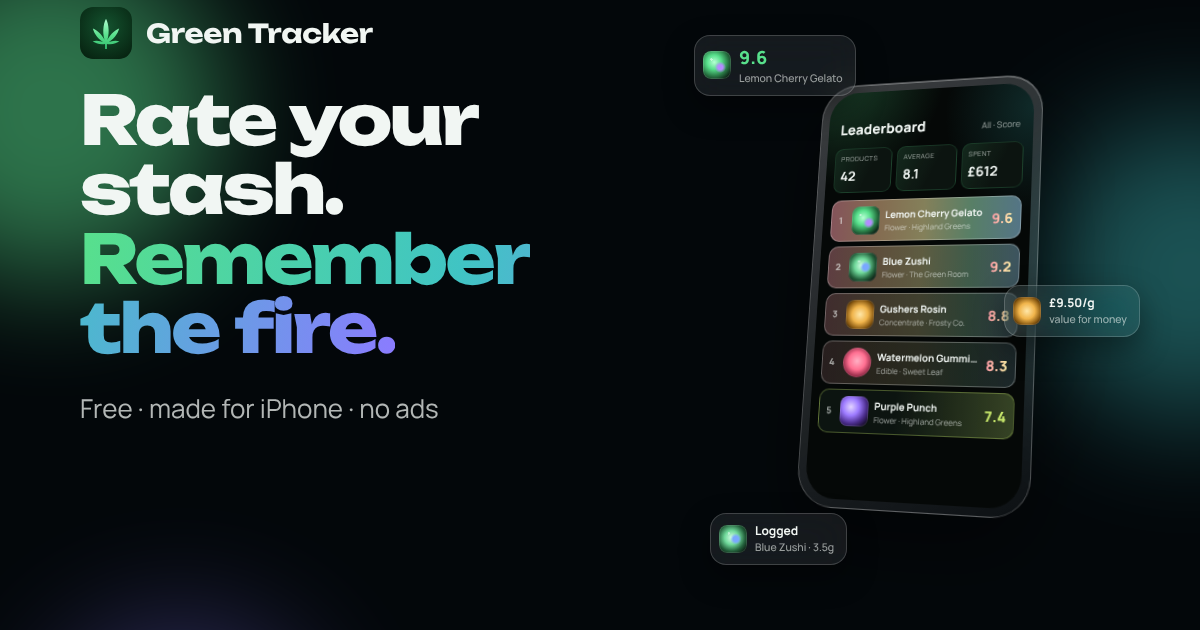
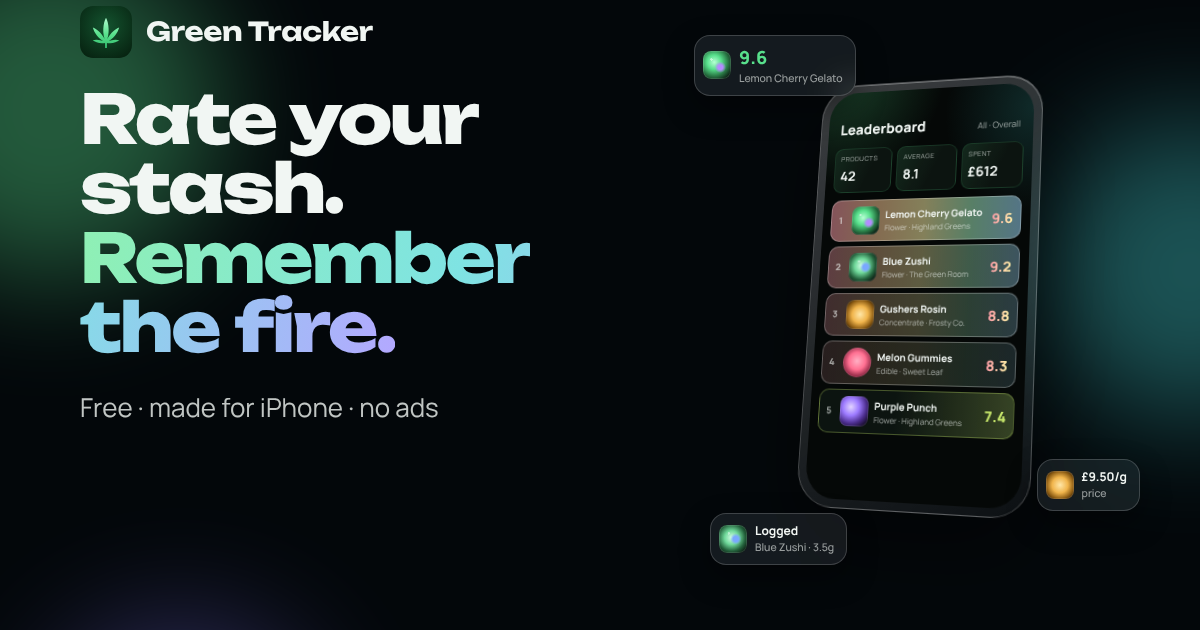
Website catches up with the app (0.69.4)
What sign-up asks for, posts in the friends card, one time throughout, the
video's last caption with View More, the real address and a WhatsApp line in
step 1, the price chip relabelled and moved off the scores (share picture
redrawn), 44-point top buttons, a fixed slider name, laptop layout lined up,
and the lost page reworded.

Claude-Session: https://claude.ai/code/session_015gNFVnJ8i3cwj7fjUvrifw

diff --git a/site/public/index.html b/site/public/index.html
@@ -40,22 +40,23 @@
         <a class="btn go" href="https://green-tracker.green-tracker.workers.dev/signup">Sign up free</a>
         <a class="btn ghost" href="#install">Put it on my iPhone</a>
       </div>
+      <p class="asks">Just an email and password. Your email stays private; Face ID is optional.</p>
 
       <!-- A picture of the app, drawn here. Every product in it is made up. -->
       <div class="stage" role="img" aria-label="The Green Tracker Leaderboard on an iPhone, with made-up products ranked by score">
         <div class="chip c1" aria-hidden="true"><span class="nug"></span><span><b class="big">9.6</b><small>Lemon Cherry Gelato</small></span></div>
         <div class="mini" aria-hidden="true"><div class="mini-in">
-          <div class="mini-h"><b>Leaderboard</b><span>All · Score</span></div>
+          <div class="mini-h"><b>Leaderboard</b><span>All · Overall</span></div>
           <div class="tiles"><div><small>Products</small><b>42</b></div><div><small>Average</small><b>8.1</b></div><div><small>Spent</small><b>£612</b></div></div>
           <div class="lb">
             <div class="lr holo b4"><span class="rk">1</span><span class="nug"></span><span class="nm"><b>Lemon Cherry Gelato</b><small>Flower · Highland Greens</small></span><span class="sc">9.6</span></div>
             <div class="lr holo b3"><span class="rk">2</span><span class="nug n2"></span><span class="nm"><b>Blue Zushi</b><small>Flower · The Green Room</small></span><span class="sc">9.2</span></div>
             <div class="lr holo b2"><span class="rk">3</span><span class="nug n3"></span><span class="nm"><b>Gushers Rosin</b><small>Concentrate · Frosty Co.</small></span><span class="sc">8.8</span></div>
-            <div class="lr holo b1"><span class="rk">4</span><span class="nug n4"></span><span class="nm"><b>Watermelon Gummies</b><small>Edible · Sweet Leaf</small></span><span class="sc">8.3</span></div>
+            <div class="lr holo b1"><span class="rk">4</span><span class="nug n4"></span><span class="nm"><b>Melon Gummies</b><small>Edible · Sweet Leaf</small></span><span class="sc">8.3</span></div>
             <div class="lr heat"><span class="rk">5</span><span class="nug n5"></span><span class="nm"><b>Purple Punch</b><small>Flower · Highland Greens</small></span><span class="sc">7.4</span></div>
           </div>
         </div></div>
-        <div class="chip c2" aria-hidden="true"><span class="nug n3"></span><span>£9.50/g<small>value for money</small></span></div>
+        <div class="chip c2" aria-hidden="true"><span class="nug n3"></span><span>£9.50/g<small>price</small></span></div>
         <div class="chip c3" aria-hidden="true"><span class="nug n2"></span><span>Logged<small>Blue Zushi · 3.5g</small></span></div>
       </div>
     </section>
@@ -81,8 +82,8 @@
         </article>
         <article class="feat reveal">
           <span class="ic"><svg viewBox="0 0 24 24" aria-hidden="true"><circle cx="9" cy="8" r="3.5" /><path d="M2.5 20a6.5 6.5 0 0 1 13 0M16 4.5a3.5 3.5 0 0 1 0 7M18 14a6 6 0 0 1 3.5 6" /></svg></span>
-          <h3>Peep your mates’ picks</h3>
-          <p>Follow friends and see their top shelf. Only if they say yes. Your stuff stays yours until you let someone in.</p>
+          <h3>See your mates’ picks and posts</h3>
+          <p>Follow friends to see their top shelf and their posts in your Feed. Post what you’re smoking: only friends you approve see it.</p>
         </article>
       </div>
     </section>
@@ -92,8 +93,8 @@
       <h2 id="try" class="reveal">Go on, rate it.</h2>
       <div class="rate reveal">
         <div class="lr holo b3" id="rate-row"><span class="nug n2"></span><span class="nm"><b>Blue Zushi</b><small>Flower · The Green Room</small></span><span class="sc" id="rate-score">9.2</span></div>
-        <label class="verdict" for="rate" id="rate-verdict">Fire.</label>
-        <input type="range" id="rate" min="1" max="10" step="0.1" value="9.2" />
+        <p class="verdict" id="rate-verdict">Fire.</p>
+        <input type="range" id="rate" min="1" max="10" step="0.1" value="9.2" aria-label="Score for Blue Zushi" />
         <div class="scale" aria-hidden="true"><span>1 · bin it</span><span>10 · top shelf</span></div>
       </div>
     </section>
@@ -101,17 +102,17 @@
     <section class="sec" id="install" aria-labelledby="get">
       <p class="label reveal">Get it</p>
       <h2 id="get" class="reveal">On your iPhone in 20 seconds.</h2>
-      <!-- D68: the steps as a 24-second video. Nothing downloads until it's played; sound only when tapped. -->
+      <!-- D68: the steps as a video (24 seconds long). Nothing downloads until it's played; sound only when tapped. -->
       <figure class="video reveal">
         <video controls playsinline preload="none" poster="/media/home-screen.jpg" width="1280" height="720" aria-describedby="video-about">
           <source src="/media/home-screen.mp4" type="video/mp4" />
-          <track kind="captions" src="/media/home-screen.vtt" srclang="en" label="English" />
+          <track kind="captions" src="/media/home-screen.vtt" srclang="en-GB" label="English (UK)" />
         </video>
-        <figcaption id="video-about">Watch it done: Safari, Share, View More, Add to Home Screen, Add. 24 seconds.</figcaption>
+        <figcaption id="video-about">Watch it done: Safari, Share, View More, Add to Home Screen, Add.</figcaption>
       </figure>
       <ol class="steps">
-        <li class="step reveal"><span class="n" aria-hidden="true">1</span><b>Open it in Safari</b><p>Tap Sign up free on this page, in Safari.</p>
-          <div class="pic" aria-hidden="true"><div class="safari"><span class="back">‹</span><span class="url">green-tracker.workers.dev</span><span class="share"><svg viewBox="0 0 24 24"><path d="M12 3v12M8 7l4-4 4 4M6 11H5v10h14V11h-1" /></svg></span></div></div></li>
+        <li class="step reveal"><span class="n" aria-hidden="true">1</span><b>Open it in Safari</b><p>Tap Sign up free above, in Safari.</p><p class="inapp">Opened this inside WhatsApp or Instagram? Open it in Safari first: tap ⋯ or the compass, then Open in Safari.</p>
+          <div class="pic" aria-hidden="true"><div class="safari"><span class="back">‹</span><span class="url">green-tracker.green-tracker.workers.dev</span><span class="share"><svg viewBox="0 0 24 24"><path d="M12 3v12M8 7l4-4 4 4M6 11H5v10h14V11h-1" /></svg></span></div></div></li>
         <li class="step reveal"><span class="n" aria-hidden="true">2</span><b>Tap Share, then View More, then Add to Home Screen</b><p>On newer iPhones, tap ⋯ at the bottom first to find Share. View More is the last round button.</p>
           <div class="pic menu" aria-hidden="true"><div>Copy <svg viewBox="0 0 24 24"><rect x="8" y="8" width="12" height="12" rx="2" /><path d="M4 16V4h12" /></svg></div><div class="hit">Add to Home Screen <svg viewBox="0 0 24 24"><rect x="4" y="4" width="16" height="16" rx="4" /><path d="M12 8v8M8 12h8" /></svg></div><div>Add Bookmark <svg viewBox="0 0 24 24"><path d="M5 4h14v17l-7-5-7 5z" /></svg></div></div></li>
         <li class="step reveal"><span class="n" aria-hidden="true">3</span><b>Tap Add. Done.</b><p>It sits on your Home Screen and opens full screen, like a proper app.</p>
@@ -122,7 +123,7 @@
 
     <section class="final reveal" aria-labelledby="go">
       <h2 id="go">Roll one up and sign up.</h2>
-      <p class="lede">Free. No ads. Takes a minute.</p>
+      <p class="lede">Free. No ads. On your Home Screen in 20 seconds.</p>
       <a class="btn go" href="https://green-tracker.green-tracker.workers.dev/signup">Sign up free</a>
     </section>
   </main>

diff --git a/test/e2e/website.spec.ts b/test/e2e/website.spec.ts
@@ -75,7 +75,7 @@ test('no accessibility problems, at the top and after scrolling through', async 
 // The words sit over drifting lights (axe can't judge text over moving colour): the lights are
 // paused at several moments and the worst pixel behind each piece of text is measured, all the
 // way down the page. The little picture of the app and of Safari are pictures, not words to read.
-const WORDS = '.brand span, .btn, .eyebrow, h1, h1 em, h2, h3, .lede, .label, .feat p, .verdict, .rate .nm b, .rate .nm small, .rate .sc, .scale span, .step b, .step p, .step .n, .video figcaption, .other, .foot span';
+const WORDS = '.brand span, .btn, .eyebrow, h1, h1 em, h2, h3, .lede, .asks, .label, .feat p, .verdict, .rate .nm b, .rate .nm small, .rate .sc, .scale span, .step b, .step p, .step .n, .video figcaption, .other, .foot span';
 test('every word is readable over the moving lights, all the way down', async ({ page }) => {
   test.slow();
   await open(page);
@@ -110,7 +110,8 @@ test('fits a phone: nothing spills sideways, from the smallest iPhone up', async
 
 test('Go on, rate it: the slider gives the score the colours it earns in the app', async ({ page }) => {
   await open(page);
-  const slider = page.getByRole('slider', { name: /fire|talking|bad|mids|top shelf/i });
+  // Its name stays the same as it moves (0.69.4); the verdict is read out with the value.
+  const slider = page.getByRole('slider', { name: 'Score for Blue Zushi', exact: true });
   const row = page.locator('#rate-row');
   await slider.fill('9.7');
   await expect(page.locator('#rate-score')).toHaveText('9.7');
@@ -123,6 +124,7 @@ test('Go on, rate it: the slider gives the score the colours it earns in the app
   await expect(row).toHaveClass('lr heat');
   await expect(page.locator('#rate-verdict')).toHaveText('Mids. Straight to the bottom.');
   await expect(slider).toHaveAttribute('aria-valuetext', '5.0 out of 10: Mids. Straight to the bottom.');
+  await expect(page.getByRole('slider', { name: 'Score for Blue Zushi', exact: true })).toHaveCount(1);
   // Below 8 the score glows amber to mint, like the app's heat (D30): amber here.
   expect(await page.locator('#rate-score').evaluate((e) => getComputedStyle(e).color)).toBe('rgb(210, 184, 82)');
 });
@@ -182,6 +184,80 @@ test('with Reduce Motion on, nothing moves', async ({ browser }) => {
 test('an address that does not exist gets the lost page, with a way back', async ({ page }) => {
   const { elsewhere } = await open(page, '/nope');
   await expect(page.getByRole('heading', { level: 1 })).toHaveText('Lost the lighter?');
+  await expect(page.getByText('This page doesn’t exist. Head back to the start.')).toBeVisible();
   await expect(page.getByRole('link', { name: 'Back to Green Tracker' })).toHaveAttribute('href', '/');
+  await expect(page.getByRole('link', { name: 'Open the app' })).toHaveAttribute('href', `${APP}/`);
   expect(elsewhere).toEqual([]);
+});
+
+// 0.69.4 (the website catching up with the app, review panel 2026-11-03): what sign-up asks for (D80), the Feed
+// (D77), one time throughout, the real address, and the price chip clear of the scores.
+test('the words match today’s app: an email and password, posts for approved friends, one time throughout', async ({ page }) => {
+  await open(page);
+  const text = await page.locator('body').innerText();
+  await expect(page.locator('.hero .asks')).toHaveText('Just an email and password. Your email stays private; Face ID is optional.');
+  // Since D80 sign-up asks for both: the page must never say otherwise.
+  expect(text).not.toMatch(/no (email|password|phone)/i);
+  await expect(page.getByRole('heading', { name: 'See your mates’ picks and posts' })).toBeVisible();
+  expect(text).toContain('only friends you approve see it');
+  expect(text).not.toMatch(/\bpeep\b/i);
+  // One time everywhere: 20 seconds, as the video itself says.
+  expect(text.match(/\b\d+ seconds?\b|\bminute\b/gi)).toEqual(['20 seconds', '20 seconds']);
+  const vtt = readFileSync(join(DIR, 'media/home-screen.vtt'), 'utf8');
+  expect(vtt.match(/\b\d+ seconds?\b|\bminute\b/gi)).toEqual(['20 seconds']);
+  expect(vtt.trim().split('\n').slice(-2)[0]).toBe('Get it in 3 steps: open it in Safari, Share → View More → Add to Home Screen, tap Add.');
+  // The real address in the Safari drawing, and a way out of WhatsApp's and Instagram's own browsers.
+  await expect(page.locator('.safari .url')).toHaveText(new URL(APP).host);
+  await expect(page.locator('#install li').first()).toContainText('Opened this inside WhatsApp or Instagram? Open it in Safari first');
+  // The picture of the app: the app's own words, a price called a price, no name cut short.
+  await expect(page.locator('.mini-h span')).toHaveText('All · Overall');
+  await expect(page.locator('.chip.c2')).toHaveText('£9.50/gprice');
+  for (const name of await page.locator('.mini .nm b').all()) expect(await name.evaluate((b) => b.scrollWidth <= b.clientWidth), await name.innerText()).toBe(true);
+});
+
+test('the floating chips never cover a score, on a phone or a laptop', async ({ page }) => {
+  for (const [width, height] of [[320, 700], [390, 844], [1280, 800]]) {
+    await page.setViewportSize({ width, height });
+    await open(page);
+    // Held still (the chips and the phone float), so the boxes are where they rest.
+    await page.evaluate(() => { for (const a of document.getAnimations()) { a.pause(); a.currentTime = 0; } });
+    const clash = await page.evaluate(() => {
+      const scores = [...document.querySelectorAll('.mini .sc')].map((e) => e.getBoundingClientRect());
+      const out: string[] = [];
+      for (const chip of document.querySelectorAll('.chip')) {
+        const c = chip.getBoundingClientRect();
+        for (const s of scores) if (c.left < s.right && s.left < c.right && c.top < s.bottom && s.top < c.bottom) out.push(chip.textContent!);
+      }
+      return out;
+    });
+    expect(clash, `${width}px wide`).toEqual([]);
+  }
+});
+
+test('the buttons at the top are big enough to tap (44 points)', async ({ page }) => {
+  for (const width of [320, 1280]) {
+    await page.setViewportSize({ width, height: 800 });
+    await open(page);
+    for (const link of await page.locator('.nav a').all()) {
+      const box = (await link.boundingBox())!;
+      expect(Math.min(box.width, box.height), `${await link.innerText()} at ${width}px`).toBeGreaterThanOrEqual(44);
+    }
+  }
+});
+
+test('on a laptop everything lines up with the hero, and the three steps sit side by side', async ({ page }) => {
+  await page.setViewportSize({ width: 1280, height: 800 });
+  await open(page);
+  await noRise(page);
+  const left = (sel: string) => page.locator(sel).first().evaluate((e) => Math.round(e.getBoundingClientRect().left));
+  const hero = await left('h1');
+  for (const sel of ['#what', '#try', '#get', '.feats', '.rate', '.steps', '.other', '.final']) expect(await left(sel), sel).toBe(hero);
+  const steps = await page.locator('#install ol > li').evaluateAll((ls) => ls.map((l) => Math.round(l.getBoundingClientRect().top)));
+  expect(new Set(steps).size).toBe(1);
+  // Each step's words start right under its title (no gap from stretching to the tallest step).
+  for (const step of await page.locator('#install ol > li').all()) {
+    const gap = await step.evaluate((l) => l.querySelector('p')!.getBoundingClientRect().top - l.querySelector('b')!.getBoundingClientRect().bottom);
+    expect(gap).toBeLessThan(10);
+  }
+  expect(await page.evaluate(() => document.documentElement.scrollWidth)).toBe(1280);
 });

diff --git a/site/public/site.css b/site/public/site.css
@@ -49,13 +49,13 @@ h1, h2, h3, p { margin: 0; }
 .nav { position: sticky; top: 0; z-index: 20; display: flex; align-items: center; justify-content: space-between; gap: 10px;
   padding: calc(12px + env(safe-area-inset-top, 0px)) var(--gutter-r) 12px var(--gutter-l);
   background: rgba(3, 7, 10, 0.55); -webkit-backdrop-filter: blur(20px) saturate(160%); backdrop-filter: blur(20px) saturate(160%); border-bottom: 1px solid rgba(255, 255, 255, 0.06); }
-.brand { display: flex; align-items: center; gap: 9px; font-family: var(--display); font-weight: 700; font-size: 15px; letter-spacing: -0.01em; text-decoration: none; }
+.brand { display: flex; align-items: center; gap: 9px; min-height: 44px; font-family: var(--display); font-weight: 700; font-size: 15px; letter-spacing: -0.01em; text-decoration: none; }
 .brand img { width: 30px; height: 30px; border-radius: 8px; }
 
 .page { max-width: 560px; margin: 0 auto; padding: 0 var(--gutter-r) 0 var(--gutter-l); }
 
 .btn { position: relative; overflow: hidden; display: inline-flex; align-items: center; justify-content: center; border-radius: 99px; font-weight: 800; text-decoration: none; white-space: nowrap; }
-.btn.sm { padding: 8px 14px; font-size: 13px; background: var(--glass); border: 1px solid var(--glass-edge); }
+.btn.sm { min-height: 44px; padding: 8px 16px; font-size: 13px; background: var(--glass); border: 1px solid var(--glass-edge); }
 .btn.go { padding: 15px 26px; font-size: 16px; color: var(--on-accent); background: linear-gradient(100deg, var(--green), var(--teal)); box-shadow: 0 10px 40px rgba(88, 224, 140, 0.35); }
 .btn.go::after { content: ""; position: absolute; inset: 0; background: linear-gradient(100deg, transparent 30%, rgba(255, 255, 255, 0.55) 50%, transparent 70%); transform: translateX(-120%); animation: sweep 3.6s ease-in-out infinite 1.2s; }
 .btn.ghost { padding: 15px 20px; font-size: 15px; background: var(--glass); border: 1px solid var(--glass-edge); -webkit-backdrop-filter: blur(12px); backdrop-filter: blur(12px); }
@@ -69,6 +69,8 @@ h1 { font-family: var(--display); font-weight: 800; font-size: clamp(38px, 11vw,
 h1 em { font-style: normal; background: linear-gradient(100deg, #8ff0b4, #7fe3e3 50%, #b3a8ff); -webkit-background-clip: text; background-clip: text; color: transparent; }
 .lede { font-size: 17px; line-height: 1.55; color: var(--text-2); max-width: 34ch; }
 .ctas { display: flex; flex-wrap: wrap; gap: 10px; padding-top: 4px; }
+/* What sign-up asks for (D80: an email and a password; Face ID optional). */
+.asks { font-size: 14.5px; color: var(--text-2); max-width: 40ch; }
 
 /* The floating glass iPhone with the Leaderboard on it. */
 .stage { position: relative; height: 490px; margin-top: 10px; perspective: 1000px; }
@@ -120,7 +122,7 @@ h1 em { font-style: normal; background: linear-gradient(100deg, #8ff0b4, #7fe3e3
 .chip small { display: block; font-weight: 500; color: var(--text-3); font-size: 10.5px; }
 .chip .big { display: block; font-family: var(--num); font-size: 18px; color: var(--green); }
 .c1 { left: -6px; top: 0; animation: float 6s ease-in-out infinite -2s; }
-.c2 { right: 0; top: 250px; animation: float 8s ease-in-out infinite -4s; }
+.c2 { right: 0; top: 424px; animation: float 8s ease-in-out infinite -4s; }
 .c3 { left: 10px; bottom: 30px; animation: float 7s ease-in-out infinite -1s; }
 
 /* Sections */
@@ -150,10 +152,11 @@ h3 { margin-top: 4px; font-family: var(--display); font-size: 19px; font-weight:
 
 /* Get it on your iPhone */
 .steps { display: grid; gap: 12px; margin: 0; padding: 0; list-style: none; }
-.step { display: grid; grid-template-columns: 36px minmax(0, 1fr); gap: 4px 14px; align-items: start; padding: 16px; border-radius: 20px; }
+.step { display: grid; grid-template-columns: 36px minmax(0, 1fr); gap: 4px 14px; align-items: start; align-content: start; padding: 16px; border-radius: 20px; }
 .step .n { grid-row: span 2; width: 36px; height: 36px; border-radius: 12px; display: grid; place-items: center; font-family: var(--display); font-weight: 800; color: var(--on-accent); background: linear-gradient(135deg, var(--green), var(--teal)); }
 .step b { font-size: 16px; }
 .step p { font-size: 15px; color: var(--text-2); }
+.step .inapp { grid-column: 2; margin-top: 6px; font-size: 14px; }
 /* Little pictures of Safari and the Home Screen, in iPhone's own colours. */
 .pic { grid-column: 2; margin-top: 10px; padding: 10px 12px; border-radius: 14px; background: #1c1c1e; border: 1px solid rgba(255, 255, 255, 0.08); color: #f2f2f7;
   font: 13px/1.3 -apple-system, BlinkMacSystemFont, "SF Pro Text", var(--body); }
@@ -208,11 +211,13 @@ h3 { margin-top: 4px; font-family: var(--display); font-size: 19px; font-weight:
   .page { max-width: 1080px; }
   .hero { grid-template-columns: minmax(0, 1fr) 420px; column-gap: 48px; padding-top: 80px; align-items: center; }
   .hero > :not(.stage) { grid-column: 1; }
-  .stage { grid-column: 2; grid-row: 1 / span 5; }
-  .feats, .steps { grid-template-columns: repeat(2, minmax(0, 1fr)); }
-  .sec, .final { max-width: 860px; margin-inline: auto; width: 100%; }
-  .rate { max-width: 520px; }
+  .stage { grid-column: 2; grid-row: 1 / span 6; }
+  /* Everything lines up with the hero's left edge; the three steps sit side by side. */
+  .feats { grid-template-columns: repeat(2, minmax(0, 1fr)); }
+  .steps { grid-template-columns: repeat(3, minmax(0, 1fr)); }
+  .rate, .video { width: 100%; max-width: 640px; }
 }
 
 /* The page for an address that doesn't exist. */
 .lost { min-height: 100dvh; display: grid; align-content: center; gap: 18px; padding-block: 40px; }
+.lost .ctas { padding-top: 0; }

diff --git a/site/og.html b/site/og.html
@@ -28,17 +28,17 @@
     <div class="stage">
       <div class="chip c1"><span class="nug"></span><span><b class="big">9.6</b><small>Lemon Cherry Gelato</small></span></div>
       <div class="mini"><div class="mini-in">
-        <div class="mini-h"><b>Leaderboard</b><span>All · Score</span></div>
+        <div class="mini-h"><b>Leaderboard</b><span>All · Overall</span></div>
         <div class="tiles"><div><small>Products</small><b>42</b></div><div><small>Average</small><b>8.1</b></div><div><small>Spent</small><b>£612</b></div></div>
         <div class="lb">
           <div class="lr holo b4"><span class="rk">1</span><span class="nug"></span><span class="nm"><b>Lemon Cherry Gelato</b><small>Flower · Highland Greens</small></span><span class="sc">9.6</span></div>
           <div class="lr holo b3"><span class="rk">2</span><span class="nug n2"></span><span class="nm"><b>Blue Zushi</b><small>Flower · The Green Room</small></span><span class="sc">9.2</span></div>
           <div class="lr holo b2"><span class="rk">3</span><span class="nug n3"></span><span class="nm"><b>Gushers Rosin</b><small>Concentrate · Frosty Co.</small></span><span class="sc">8.8</span></div>
-          <div class="lr holo b1"><span class="rk">4</span><span class="nug n4"></span><span class="nm"><b>Watermelon Gummies</b><small>Edible · Sweet Leaf</small></span><span class="sc">8.3</span></div>
+          <div class="lr holo b1"><span class="rk">4</span><span class="nug n4"></span><span class="nm"><b>Melon Gummies</b><small>Edible · Sweet Leaf</small></span><span class="sc">8.3</span></div>
           <div class="lr heat"><span class="rk">5</span><span class="nug n5"></span><span class="nm"><b>Purple Punch</b><small>Flower · Highland Greens</small></span><span class="sc">7.4</span></div>
         </div>
       </div></div>
-      <div class="chip c2"><span class="nug n3"></span><span>£9.50/g<small>value for money</small></span></div>
+      <div class="chip c2"><span class="nug n3"></span><span>£9.50/g<small>price</small></span></div>
       <div class="chip c3"><span class="nug n2"></span><span>Logged<small>Blue Zushi · 3.5g</small></span></div>
     </div>
   </div>

diff --git a/site/public/404.html b/site/public/404.html
@@ -4,6 +4,7 @@
   <meta charset="utf-8" />
   <meta name="viewport" content="width=device-width, initial-scale=1, viewport-fit=cover" />
   <title>Lost · Green Tracker</title>
+  <meta name="theme-color" content="#03070a" />
   <meta name="color-scheme" content="dark" />
   <link rel="icon" href="/favicon.svg" type="image/svg+xml" />
   <link rel="stylesheet" href="/site.css" />
@@ -12,8 +13,8 @@
   <div class="lights" aria-hidden="true"><span class="blob l1"></span><span class="blob l2"></span></div>
   <main class="page lost">
     <h1>Lost the <em>lighter?</em></h1>
-    <p class="lede">There’s nothing here. Head back and try again.</p>
-    <p><a class="btn go" href="/">Back to Green Tracker</a></p>
+    <p class="lede">This page doesn’t exist. Head back to the start.</p>
+    <div class="ctas"><a class="btn go" href="/">Back to Green Tracker</a><a class="btn ghost" href="https://green-tracker.green-tracker.workers.dev/">Open the app</a></div>
   </main>
 </body>
 </html>

diff --git a/SPEC.md b/SPEC.md
@@ -1263,14 +1263,22 @@ Mockups: `design/mockups.html` (https://claude.ai/artifact/33Y3cGCk8u6Kos1u1ht6H
   check. All links to the app are absolute (`https://green-tracker.green-tracker.workers.dev/`, `/signup` for Sign up
   free). Look: the app's dark green and Aurora, with drifting green, teal and violet lights (`.l1`–`.l5`; not `.b1`…,
   which are the Leaderboard's band classes), frosted glass cards, a gradient headline in lighter tints (readable over
-  the lights). Wider than 900px: the phone beside the words, cards two across.
+  the lights). Wider than 900px: the phone beside the words, every section lined up with the words' left edge, cards
+  two across, the three install steps side by side. *Since 0.69.4:* under the hero buttons, what sign-up asks for ("Just
+  an email and password. Your email stays private; Face ID is optional." Never "no email" or "no password": false since
+  D80); the friends card is about posts and the Feed; one time throughout ("20 seconds", as the video itself says); the
+  real address in step 1's drawing and a line for links opened inside WhatsApp or Instagram; the hero's price chip
+  says "price" and sits below the scores (on the share picture too); the slider is named "Score for Blue Zushi" (its
+  verdict is read with its value); the top buttons are 44 points tall; the lost page offers the app too.
   - *Tests* (`test/e2e/website.spec.ts`; the site is served from the folder under a made-up address with its own
     `_headers`, every other address noted and refused): nothing loads from anywhere else and nothing breaks its security
     rules; the stored fonts are used; both Sign up free buttons and Open app go to the live app; the link-preview
     picture is 1200 × 630; axe at the top and the bottom; **every word readable over the moving lights**, judged at six
     moments every 600px down the page (proved to catch dimmed text); nothing spills sideways at 320, 390 and 430px; the
     slider's colours and words; "Put it on my iPhone" reaches the steps; Reduce Motion stops every animation; the lost
-    page.
+    page. Since 0.69.4: the words match the app (what sign-up asks, never "no email", posts, one time, the video's last
+    caption, the address, the chip's words, no name cut short); the chips never cover a score at 320, 390 and 1280px;
+    the top buttons are at least 44 points; on a laptop every section lines up with the hero and the steps sit in a row.
   - *Couldn't check here*: how it looks and moves on a real iPhone (the glass blur and the drifting lights), and the
     link preview in WhatsApp and iMessage (it needs the public address).
 - **Website video (D68, 0.58.0).** A `<figure class="video">` under the "Get it" heading: `<video controls playsinline
@@ -1715,6 +1723,22 @@ Mockups: `design/mockups.html` (https://claude.ai/artifact/33Y3cGCk8u6Kos1u1ht6H
 None.
 
 ## 6. Changelog
+
+### 0.69.4 — the website catches up with the app (review panel, 2026-11-03)
+- Website only (`site/`); the app is unchanged. Under the hero buttons, what sign-up asks for: "Just an email and
+  password. Your email stays private; Face ID is optional." The friends card is now "See your mates’ picks and posts":
+  their top shelf and their posts in your Feed, "only friends you approve see it" (no more "Peep").
+- One time throughout: "On your iPhone in 20 seconds" (as the video itself says); the video's own length is no longer
+  given under it, and the closing banner says "On your Home Screen in 20 seconds" in place of "Takes a minute". The
+  video's last caption includes View More. Captions marked British English.
+- Step 1: "Tap Sign up free above, in Safari", a line for people who opened the link inside WhatsApp or Instagram,
+  and the app's real address in the drawing. The picture of the app: "All · Overall" (was "All · Score"), "Melon
+  Gummies" (no longer cut off), and the chip "£9.50/g · price" (it said value for money) moved below the scores; the
+  share picture `og.png` redrawn to match.
+- Accessibility and layout: the top buttons are 44 points tall; the rate-it slider has a fixed name, "Score for Blue
+  Zushi"; on a laptop every section lines up with the hero, the steps sit three across without gaps under their
+  titles. The lost page: "This page doesn’t exist. Head back to the start.", with an Open the app button.
+- The owner kept "Know your plug", "Roll one up and sign up" and "Made by Anton" (asked 2026-11-03).
 
 ### 0.69.3 — privacy and data words brought up to date (review panel, 2026-11-03)
 - Words only: nothing anyone can see, and no rule, changes. Sentences written before posts (D77), their look (D74)

diff --git a/CLAUDE.md b/CLAUDE.md
@@ -299,7 +299,8 @@ small notes-only one. The "Green Tracker to-do list" conversation answers Anton'
 section, so it must always be current.
 
 - **Live:** 0.69.2 (2026-11-03): everything up to don't lose my work (to-do item 2).
-- **Dev:** 0.69.3 (2026-11-03): privacy and data words (to-do item 3), on its way to live.
+- **Dev:** 0.69.4 (2026-11-03): privacy and data words (to-do item 3, 0.69.3) and the website catch-up (item 6),
+  on their way to live.
 
 ### To-do list (suggested order; Anton decides)
 
@@ -317,10 +318,9 @@ Each is a job for its own conversation; the summary lists what each covers.
    Feed photos load as you scroll, tapping the tab again refreshes, reload on coming back.
 5. **Wording fixes across the app** (small). The proof-reader's table ("More" → "Settings", plurals, capitals,
    colour names in the badge, type names, archive messages, Current password).
-6. **Website catch-up** (small; the hero picture is some work). Say what sign-up asks for (never "no email"); the
-   Feed in the friends card; one time throughout; the video's last caption; the real address; the price chip and
-   share picture; WhatsApp line, laptop layout, button sizes, slider name, 404. Anton decides "Know your plug",
-   "Roll one up", "Made by Anton".
+6. **Website catch-up** (small): **on dev** in 0.69.4 (2026-11-03). What sign-up asks for, the Feed in the friends
+   card, one time throughout, the video's last caption, the real address, the price chip and share picture, WhatsApp
+   line, laptop layout, button sizes, slider name, 404. Anton kept "Know your plug", "Roll one up" and "Made by Anton".
 7. **Trust basics for strangers** (big). 18+ tick, a privacy page and terms with a contact address, a Report button
    on posts, comments and profiles, a per-account photo limit, a Cloudflare billing alert. Anton decides first
    (contact address; 18+ on the website reopens D63; Ofcom and ICO checkers).
